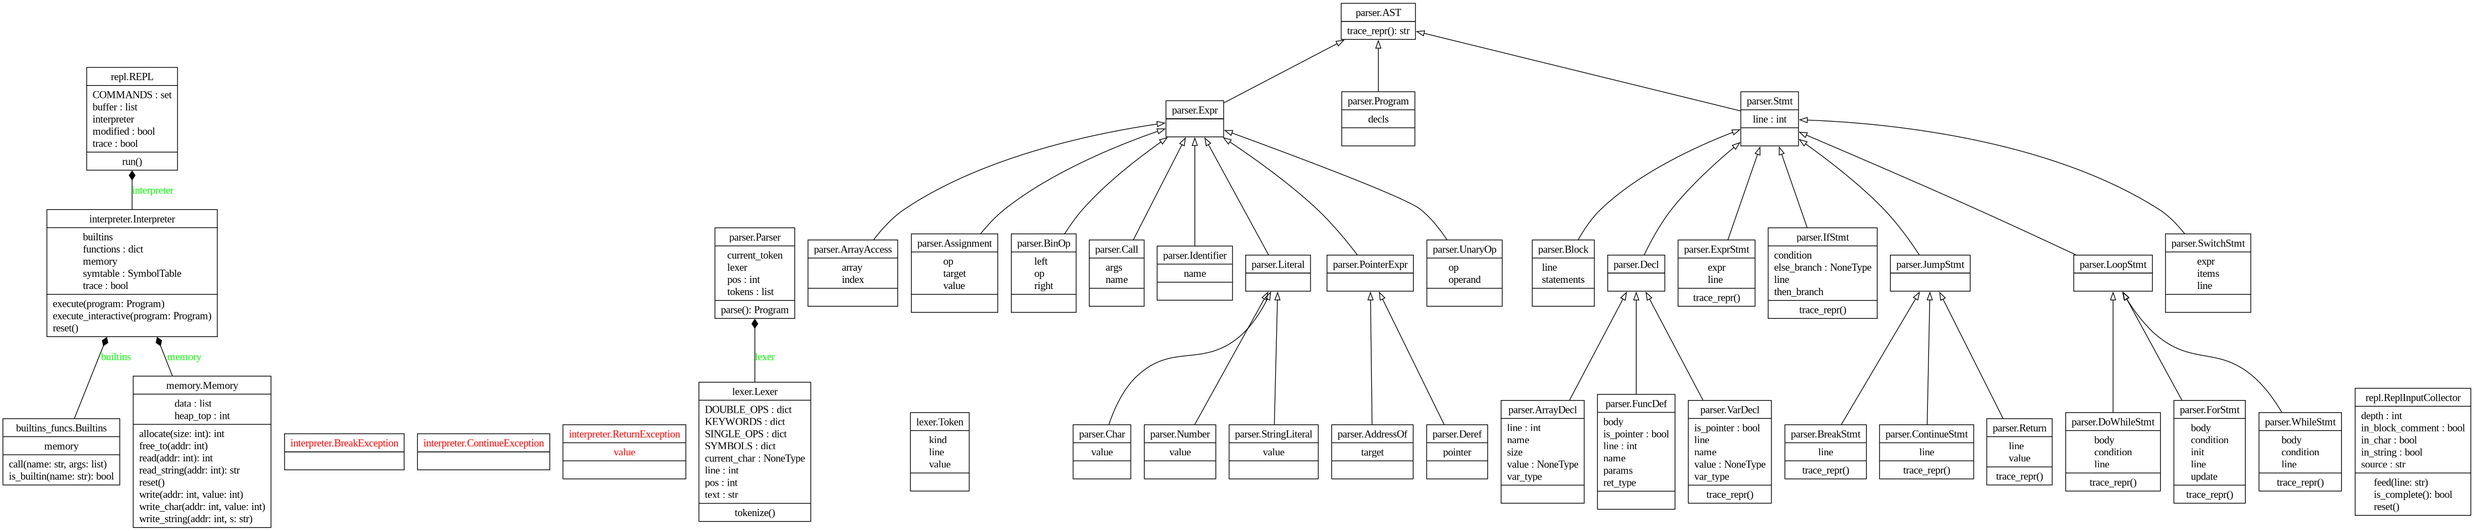
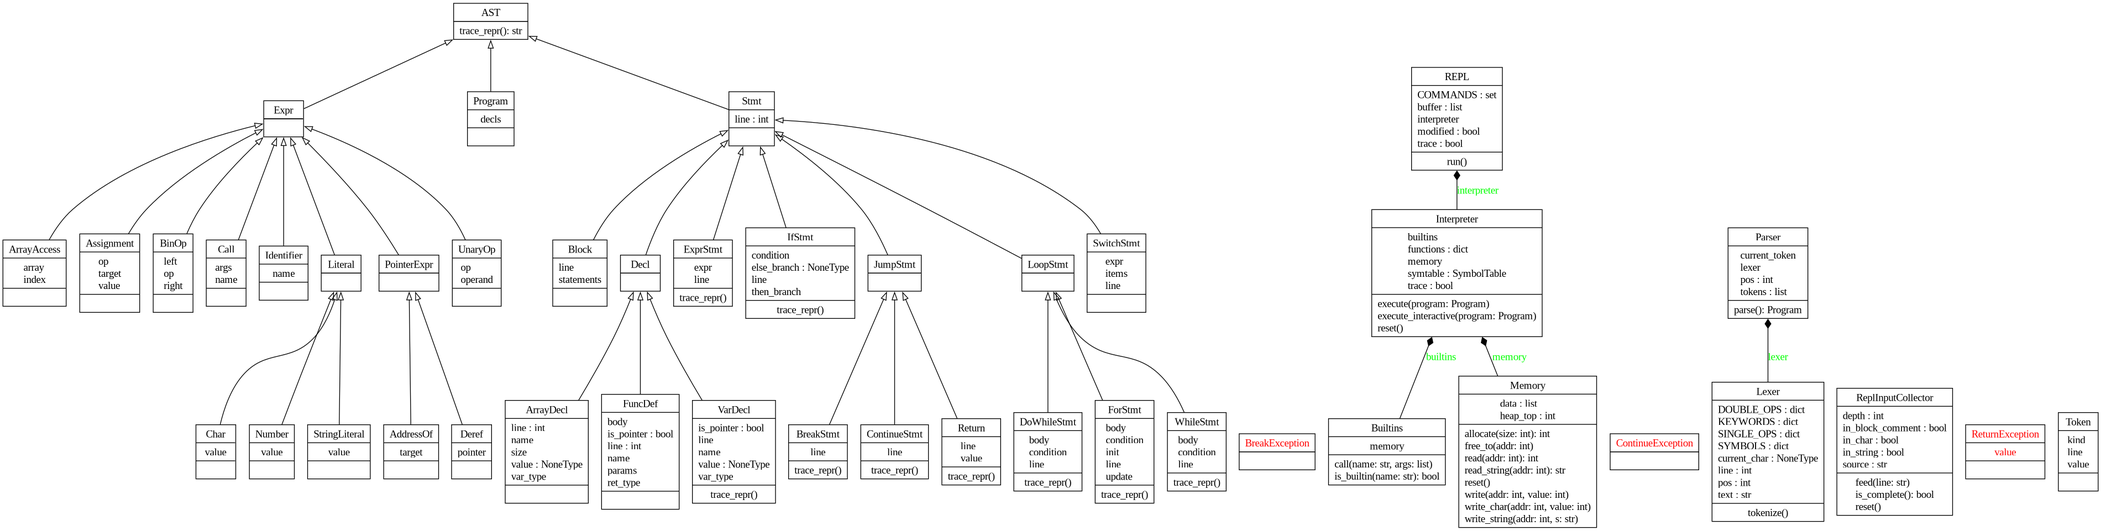
refactor: centralize int32(), fix dead code, update docs and UML
- memory.py: add module-level int32() shared utility, eliminating
  duplicate _int32 implementations in Interpreter and Builtins
- interpreter.py: import int32 from memory; remove duplicate _int32
  method; remove dead `if symbol is None` check after lookup()
  (lookup() raises RuntimeError, never returns None)
- builtins_funcs.py: import int32 from memory; remove duplicate
  _int32 static method
- repl.py: fix _cmd_trace docstring (says [trace] but actual format
  is [line n] <statement>)
- CLAUDE.md: remove gaps that are already fixed (TRACE format, ABOUT
  author, FUNCS line numbers); update int32 description; keep only
  remaining gaps (filename, block-local decls, error wording)
- README.md: note builtins_funcs.py rename required for submission
- uml/: regenerate class and package diagrams

diff --git a/interpreter.py b/interpreter.py
@@ -33,7 +33,7 @@ from parser import (
     AddressOf, Deref, ArrayAccess,
 )
 from symtable import SymbolTable
-from memory import Memory
+from memory import Memory, int32
 from builtins_funcs import Builtins
 
 
@@ -351,9 +351,8 @@ class Interpreter:
             return addr
 
         elif isinstance(node, Identifier):
+            # lookup() 找不到時會拋出 RuntimeError，不會回傳 None
             symbol = self.symtable.lookup(node.name)
-            if symbol is None:
-                raise RuntimeError(f"Runtime error: undefined variable '{node.name}'")
             # 陣列名稱作為右值時，退化為指向首元素的指標（array decay）
             if symbol.is_array:
                 return symbol.addr
@@ -430,29 +429,29 @@ class Interpreter:
         right = self._eval_expr(node.right)
         op = node.op
 
-        if op == "PLUS":    return self._int32(left + right)
-        if op == "MINUS":   return self._int32(left - right)
-        if op == "MUL":     return self._int32(left * right)
+        if op == "PLUS":    return int32(left + right)
+        if op == "MINUS":   return int32(left - right)
+        if op == "MUL":     return int32(left * right)
         if op == "DIV":
             if right == 0:
                 raise RuntimeError("Runtime error: division by zero.")
-            return self._int32(int(left / right))
+            return int32(int(left / right))
         if op == "MOD":
             if right == 0:
                 raise RuntimeError("Runtime error: division by zero.")
             # C 語意：截斷除法，餘數符號與被除數相同（不同於 Python 的 floor 除法）
-            return self._int32(left - int(left / right) * right)
+            return int32(left - int(left / right) * right)
         if op == "EQ":      return 1 if left == right else 0
         if op == "NEQ":     return 1 if left != right else 0
         if op == "LT":      return 1 if left < right else 0
         if op == "GT":      return 1 if left > right else 0
         if op == "LTE":     return 1 if left <= right else 0
         if op == "GTE":     return 1 if left >= right else 0
-        if op == "BIT_AND": return self._int32(left & right)
-        if op == "BIT_OR":  return self._int32(left | right)
-        if op == "BIT_XOR": return self._int32(left ^ right)
-        if op == "LSHIFT":  return self._int32(left << right)
-        if op == "RSHIFT":  return self._int32(left >> right)
+        if op == "BIT_AND": return int32(left & right)
+        if op == "BIT_OR":  return int32(left | right)
+        if op == "BIT_XOR": return int32(left ^ right)
+        if op == "LSHIFT":  return int32(left << right)
+        if op == "RSHIFT":  return int32(left >> right)
 
         raise RuntimeError(f"Unknown binary operator: {op}")
 
@@ -481,13 +480,13 @@ class Interpreter:
         """
         op = node.op
         if op == "MINUS":
-            return self._int32(-self._eval_expr(node.operand))
+            return int32(-self._eval_expr(node.operand))
         if op == "PLUS":
             return self._eval_expr(node.operand)
         if op == "NOT":
             return 1 if not self._eval_expr(node.operand) else 0
         if op == "BIT_NOT":
-            return self._int32(~self._eval_expr(node.operand))
+            return int32(~self._eval_expr(node.operand))
         if op == "INC":
             return self._eval_inc_dec(node.operand, 1)
         if op == "DEC":
@@ -516,13 +515,13 @@ class Interpreter:
         """
         if isinstance(target, Identifier):
             val = self.symtable.get_value(target.name)
-            new_val = self._int32(val + delta)
+            new_val = int32(val + delta)
             self.symtable.set_value(target.name, new_val)
             return new_val
         if isinstance(target, Deref):
             addr = self._eval_expr(target.pointer)
             val = self.memory.read(addr)
-            new_val = self._int32(val + delta)
+            new_val = int32(val + delta)
             self.memory.write(addr, new_val)
             return new_val
         if isinstance(target, ArrayAccess):
@@ -539,7 +538,7 @@ class Interpreter:
                 base = self.memory.read(symbol.addr)
                 addr = base + index
             val = self.memory.read(addr)
-            new_val = self._int32(val + delta)
+            new_val = int32(val + delta)
             if symbol.var_type == 'char':
                 self.memory.write_char(addr, new_val)
             else:
@@ -571,20 +570,20 @@ class Interpreter:
         if node.op != "ASSIGN":
             old = self._eval_lvalue_read(node.target)
             if node.op == "ADD_ASSIGN":
-                val = self._int32(old + val)
+                val = int32(old + val)
             elif node.op == "SUB_ASSIGN":
-                val = self._int32(old - val)
+                val = int32(old - val)
             elif node.op == "MUL_ASSIGN":
-                val = self._int32(old * val)
+                val = int32(old * val)
             elif node.op == "DIV_ASSIGN":
                 if val == 0:
                     raise RuntimeError("Runtime error: division by zero.")
-                val = self._int32(int(old / val))
+                val = int32(int(old / val))
             elif node.op == "MOD_ASSIGN":
                 if val == 0:
                     raise RuntimeError("Runtime error: division by zero.")
                 # C 語意：截斷除法，餘數符號與被除數相同
-                val = self._int32(old - int(old / val) * val)
+                val = int32(old - int(old / val) * val)
 
         self._eval_lvalue_write(node.target, val)
         return val
@@ -757,18 +756,3 @@ class Interpreter:
                 return base + index
         raise RuntimeError("Invalid & target")
 
-    # ── 工具方法 ──────────────────────────────────
-
-    def _int32(self, value: int) -> int:
-        """
-        將任意整數截斷為 32 位元有號整數範圍（-2^31 ～ 2^31-1）。
-        所有算術與位元運算的結果均經過此函式處理，模擬 C 的 int 溢位行為。
-
-        Args:
-            value (int): 要截斷的整數值。
-
-        Returns:
-            int: 截斷後的 32 位元有號整數。
-        """
-        value = int(value)
-        return ((value + 2**31) % 2**32) - 2**31

diff --git a/builtins_funcs.py b/builtins_funcs.py
@@ -25,6 +25,7 @@ Usage:
 import sys
 import math
 import random
+from memory import int32
 
 
 class Builtins:
@@ -74,21 +75,6 @@ class Builtins:
         }
 
     # ── 統一呼叫介面 ──────────────────────────────
-
-    @staticmethod
-    def _int32(value: int) -> int:
-        """
-        截斷為 32 位元有號整數範圍（-2^31 ～ 2^31-1）。
-        供內建函式在回傳前統一截斷，模擬 C 的 int 溢位行為。
-
-        Args:
-            value (int): 要截斷的整數值。
-
-        Returns:
-            int: 截斷後的 32 位元有號整數。
-        """
-        value = int(value)
-        return ((value + 2**31) % 2**32) - 2**31
 
     def call(self, name: str, args: list):
         """
@@ -355,7 +341,7 @@ class Builtins:
         if not args:
             raise RuntimeError("abs: missing argument")
         # 截斷為 32-bit：abs(INT_MIN) 在 C 中為未定義行為，此處採 wrap-around 語意
-        return self._int32(abs(int(args[0])))
+        return int32(abs(int(args[0])))
 
     def _max(self, args):
         """
@@ -399,7 +385,7 @@ class Builtins:
         base, exp = int(args[0]), int(args[1])
         if exp < 0:
             return 0
-        return self._int32(int(base ** exp))
+        return int32(int(base ** exp))
 
     def _sqrt(self, args):
         """
@@ -439,7 +425,7 @@ class Builtins:
         if b == 0:
             raise RuntimeError("mod: division by zero")
         # C 語意：截斷除法，餘數符號與被除數相同（不同於 Python 的 floor 除法）
-        return self._int32(a - int(a / b) * b)
+        return int32(a - int(a / b) * b)
 
     def _rand(self, args):
         """

diff --git a/memory.py b/memory.py
@@ -22,6 +22,15 @@ Usage:
 """
 
 
+def int32(value: int) -> int:
+    """
+    截斷為 32 位元有號整數範圍（−2^31 ～ 2^31−1）。
+    供直譯器與內建函式共用，模擬 C 的 int 溢位行為。
+    """
+    value = int(value)
+    return ((value + 2**31) % 2**32) - 2**31
+
+
 class Memory:
     """
     Small-C 直譯器的線性記憶體空間。
@@ -107,9 +116,7 @@ class Memory:
         """
         if addr < 0 or addr >= self.heap_top:
             raise RuntimeError(f"Memory access out of bounds: address {addr}")
-        value = int(value)
-        value = ((value + 2**31) % 2**32) - 2**31  # 截斷為 32 位元有號整數
-        self.data[addr] = value
+        self.data[addr] = int32(value)  # 截斷為 32 位元有號整數
 
     def write_char(self, addr: int, value: int):
         """
@@ -125,8 +132,7 @@ class Memory:
         if addr < 0 or addr >= self.heap_top:
             raise RuntimeError(f"Memory access out of bounds: address {addr}")
         value = int(value)
-        value = ((value + 128) % 256) - 128  # 截斷為 8 位元有號整數
-        self.data[addr] = value
+        self.data[addr] = ((value + 128) % 256) - 128  # 截斷為 8 位元有號整數
 
     # ── 字串讀寫 ──────────────────────────────────
 

diff --git a/repl.py b/repl.py
@@ -533,7 +533,7 @@ class REPL:
     def _cmd_trace(self, parts):
         """
         啟用或關閉 TRACE 模式。啟用時，直譯器執行每個 AST 節點前
-        會在輸出中印出 [trace] 追蹤資訊，方便除錯。
+        會在輸出中印出 [line n] <statement> 追蹤資訊，方便除錯。
 
         用法：TRACE ON / TRACE OFF
         """

diff --git a/CLAUDE.md b/CLAUDE.md
@@ -12,9 +12,9 @@ Small-C is a tree-walking interpreter for a subset of C, implemented in pure Pyt
 python main.py
 ```
 
-This launches the REPL (prompt `sc> `). There are no CLI flags or script-mode entry points — all interaction happens inside the REPL. To execute a `.c` file, start the REPL and use `LOAD <file>` followed by `RUN`. Use `CHECK` to parse without executing. `TRACE ON` enables per-node execution tracing for debugging the interpreter itself.
+This launches the REPL (prompt `sc> `). There are no CLI flags or script-mode entry points — all interaction happens inside the REPL. To execute a `.c` file, start the REPL and use `LOAD <file>` followed by `RUN`. Use `CHECK` to parse without executing. `TRACE ON` enables per-node execution tracing, printing `[line n] <statement>` before each node.
 
-Because there are no tests, verification of changes is done by hand via the REPL: `LOAD` a sample program, `RUN` it, and inspect output / `VARS` / `FUNCS`.
+Because there are no tests, verification is done by hand via the REPL: `LOAD` a sample program, `RUN` it, and inspect output / `VARS` / `FUNCS`.
 
 ## Architecture
 
@@ -25,19 +25,19 @@ source ─► preprocess() ─► Lexer ─► Parser ─► Interpreter ─► 
                          (Token)   (AST)    (walks AST)
 ```
 
-- **`lexer.py`** — `preprocess()` handles parameter-less `#define` macro expansion (identifier-boundary aware, so `#define N 8` won't clobber `int`). `Lexer.tokenize()` is a hand-written character scanner that yields `Token(kind, value, line)`. Double-char operators are matched before single-char to avoid ambiguity (`==` before `=`).
+- **`lexer.py`** — `preprocess()` handles parameter-less `#define` macro expansion (identifier-boundary aware). `Lexer.tokenize()` is a hand-written character scanner that yields `Token(kind, value, line)`. Double-char operators are matched before single-char to avoid ambiguity (`==` before `=`).
 
-- **`parser.py`** — Recursive-descent parser producing the AST. The **top half of the file defines all AST node classes** (`Expr`/`Stmt`/`FuncDef`/`Program` hierarchies); the **bottom half is the `Parser` class**. Expression precedence, low to high: `assignment > logic_or > logic_and > bit_or > bit_xor > bit_and > equality > rel > shift > add > mul > unary > primary`. `is_func_def()` does 3–4 token lookahead to disambiguate function definitions from variable declarations at the top level (it must handle both `int foo(` and `int *foo(`).
+- **`parser.py`** — Recursive-descent parser producing the AST. The **top half defines all AST node classes** (`Expr`/`Stmt`/`FuncDef`/`Program` hierarchies); the **bottom half is the `Parser` class**. Expression precedence, low to high: `assignment > logic_or > logic_and > bit_or > bit_xor > bit_and > equality > rel > shift > add > mul > unary > primary`. `is_func_def()` does 3–4 token lookahead to disambiguate function definitions from variable declarations.
 
-- **`interpreter.py`** — `Interpreter` walks the AST. Two entry points: `execute()` runs a full program (requires `main()`; does a two-pass scan — collect functions and globals first, then call `main`); `execute_interactive()` runs REPL fragments directly without requiring `main()`. **Control flow (`break`/`continue`/`return`) is implemented via Python exceptions** (`BreakException`, `ContinueException`, `ReturnException`) caught by the nearest enclosing loop or call site. All values are integers — `char` is just an 8-bit int, pointers are memory addresses (also ints).
+- **`interpreter.py`** — `Interpreter` walks the AST. Two entry points: `execute()` runs a full program (requires `main()`; collects functions and globals first, then calls `main`); `execute_interactive()` runs REPL fragments directly without requiring `main()`. **Control flow (`break`/`continue`/`return`) is implemented via Python exceptions** (`BreakException`, `ContinueException`, `ReturnException`) caught by the nearest enclosing loop or call site. All values are integers — `char` is just an 8-bit int, pointers are memory addresses (also ints).
 
-- **`memory.py`** — `Memory` is a flat `list[int]` of 65536 cells with a bump allocator (`heap_top`). `allocate()` grows it, `free_to()` rewinds it (used on function return to release locals). `write()` truncates to 32-bit signed, `write_char()` to 8-bit signed. Strings are C-style null-terminated sequences written via `write_string()`.
+- **`memory.py`** — `int32(value)` is a **module-level utility** shared by all modules for 32-bit truncation. `Memory` is a flat `list[int]` of 65536 cells with a bump allocator (`heap_top`). `allocate()` grows it, `free_to()` rewinds it (used on function return to release locals). `write()` delegates to `int32()`, `write_char()` truncates to 8-bit signed. Strings are C-style null-terminated sequences via `write_string()`.
 
 - **`symtable.py`** — `SymbolTable` is a stack of scope dicts. `scopes[0]` is the global scope (permanent); each function call pushes a new scope and pops on return. `lookup()` walks from innermost outward, giving C-like shadowing. It only maps names → `Symbol` (which holds type, address, `is_pointer`, `is_array`, `array_size`); the actual cell read/write is delegated to `Memory`.
 
-- **`builtins_funcs.py`** — `Builtins.call(name, args)` dispatches built-in functions by name. Built-ins receive already-evaluated integer arguments; string arguments arrive as memory addresses and must be read via `memory.read_string(addr)`. Covers I/O (`printf`, `scanf`, `putchar`, `getchar`, `puts`), string ops (`strlen`, `strcpy`, `strcmp`, `strcat`), math (`abs`, `max`, `min`, `pow`, `sqrt`, `mod`, `rand`, `srand`), and utilities (`memset`, `sizeof_int`, `sizeof_char`, `atoi`, `itoa`, `exit`). `Interpreter.eval_call()` checks `builtins.is_builtin(name)` before falling back to user-defined functions.
+- **`builtins_funcs.py`** — `Builtins.call(name, args)` dispatches built-in functions by name using a `_dispatch` dict. Built-ins receive already-evaluated integer arguments; string arguments arrive as memory addresses and are read via `memory.read_string(addr)`. Imports `int32` from `memory`. `Interpreter._eval_call()` checks `builtins.is_builtin(name)` before falling back to user-defined functions.
 
-- **`repl.py`** — `REPL` holds a line buffer (`self.buffer`) and dispatches `LOAD / SAVE / LIST / EDIT / DELETE / INSERT / APPEND / NEW / RUN / CHECK / TRACE / VARS / FUNCS / HELP / ABOUT / CLEAR / QUIT`. `ReplInputCollector` tracks brace depth and comment/string state across lines so multi-line function definitions can be typed at the prompt before being handed to the parser as one unit. `main.py` is a 10-line shim that just instantiates `REPL` and calls `run()`.
+- **`repl.py`** — `REPL` holds a line buffer (`self.buffer`) and dispatches all REPL commands. `ReplInputCollector` tracks brace depth and comment/string state across lines so multi-line function definitions can be typed at the prompt before being handed to the parser as one unit.
 
 ### Small-C language subset
 
@@ -45,45 +45,33 @@ Supported: `int` / `char` / `void` (with pointer `*`); variable and array declar
 
 ## Conventions specific to this codebase
 
-- **All docstrings and inline comments are in Traditional Chinese** (繁體中文). Module headers use a consistent ASCII box-drawing format with a flow diagram at the top. When editing existing modules, match this style — don't translate existing Chinese comments to English, and write new comments in Chinese if the surrounding code is in Chinese.
-- Section dividers inside classes use `# ── Section Name ────` (en-dash + box-drawing). Top-level module sections use `# ═══` (double line).
-- The interpreter uses exceptions for control flow by design — do not "fix" `BreakException`/`ContinueException`/`ReturnException` by trying to refactor them into return values.
-- Integer truncation is centralized in `Memory.write()` / `write_char()` and `Interpreter._int32()`. Always go through these rather than applying masks inline.
+- **All docstrings and inline comments are in Traditional Chinese** (繁體中文). Module headers use a consistent ASCII box-drawing format with a flow diagram at the top. When editing existing modules, match this style.
+- Section dividers inside classes use `# ── Section Name ────`. Top-level module sections use `# ═══`.
+- The interpreter uses exceptions for control flow by design — do not "fix" `BreakException`/`ContinueException`/`ReturnException`.
+- **Integer truncation uses `int32()` from `memory.py`** (module-level function). Both `Interpreter` and `Builtins` import and call `int32()` directly. Do not apply masks inline.
 
-## Assignment spec (authoritative — treat as source of truth)
+## Assignment spec (authoritative)
 
-Two spec documents live in the repo root and override any assumption you would otherwise derive from the code:
+Two spec documents live in `docs/`:
 
-- `期末專題SmallC 互動式解譯器作業說明.pdf` — the assignment handout (scanned images, 22 pages). This defines the required language subset, built-ins, REPL commands, error message formats, submission file names, and grading rubric.
-- `期末專題-Small-C 互動式解譯器評分標準-學生版.md` — the grading checklist. Five test scripts A–E; only **Test A** is visible to students, B–E are withheld and run by the grader. The MD lists every REPL command and language feature that will be checked.
+- `期末專題SmallC 互動式解譯器作業說明.pdf` — the assignment handout (22 pages).
+- `期末專題-Small-C 互動式解譯器評分標準-學生版.md` — the grading checklist. Five test scripts A–E; only **Test A** is visible to students.
 
-When in doubt about required behavior, read the spec files rather than matching the current code — the code has known gaps (see below).
+### Spec highlights
 
-### Spec highlights that are easy to get wrong
-
-- **No block-local variable declarations.** Per the PDF, Small-C只在函式開頭宣告區域變數. Do not encourage users to declare vars mid-block even though the current parser accepts it.
-- **`switch`/`case` and postfix `++`/`--` are optional bonus features**, not core requirements. `switch` is already implemented; postfix `++`/`--` is intentionally absent.
-- **REPL commands are case-insensitive** and the spec enumerates the exact set: `ABOUT HELP APPEND LIST EDIT DELETE INSERT CHECK RUN SAVE NEW LOAD TRACE VARS FUNCS CLEAR QUIT/EXIT`.
-- **`ABOUT` must display 名稱、版本號、作者資訊、修課學期** — author info is required.
-- **`TRACE` output format is `[line n] <statement>`**, not a free-form node dump.
-- **`FUNCS` must print line numbers for user-defined functions**, e.g. `void swap(int *a, int *b)    line 2`. Built-ins are listed separately with no line number.
-- **Error messages have specific required formats**, e.g.
-  - `Runtime error: division by zero.`
-  - `Runtime error: array index out of bounds (index 10, size 5).`
-  - `Runtime error: sqrt() argument must be non-negative.`
-  - `Syntax error: unexpected token ';', expected expression.`
-  - `Error at line 3: expected ';' after expression statement.`
-- **Required built-ins** (must all exist with these names): `printf scanf putchar getchar puts strlen strcpy strcmp strcat abs max min pow sqrt mod rand srand memset sizeof_int sizeof_char atoi itoa exit`. `printf` must accept `%d %c %s %x %%`; `scanf` must accept `%d %c`.
-- **Submission file names**: `main.py lexer.py parser.py interpreter.py symtable.py memory.py builtins.py repl.py` + `requirements.txt` + `README.md` + 10+ test programs + PDF report (10+ pages) + 5–10 min screen recording. Note the spec expects `builtins.py`, not the current `builtins_funcs.py`.
+- **No block-local variable declarations.** Parser currently accepts them (intentional leniency). Do not encourage mid-block var declarations.
+- **`switch`/`case` is already implemented** as a bonus feature. Postfix `++`/`--` is intentionally absent.
+- **REPL commands are case-insensitive**: `ABOUT HELP APPEND LIST EDIT DELETE INSERT CHECK RUN SAVE NEW LOAD TRACE VARS FUNCS CLEAR QUIT/EXIT`.
+- **`TRACE` output format**: `[line n] <statement>` — already implemented correctly.
+- **`FUNCS`** shows line numbers for user-defined functions — already implemented.
+- **`ABOUT`** shows name/version/author/semester — already implemented.
 - **Grading rubric (100 + 15 bonus)**: Lex/Parse 25 · Semantic/Exec 30 · REPL 20 · Quality/Docs 15 · Bonus (switch/case 5, runtime errors 5, #define 5).
 
-### Known spec/implementation gaps
+### Remaining spec gaps (fix before submission)
 
-These were identified by spot-checking against the spec; fix them before submission, but don't silently "refactor" them without flagging the change:
-
-1. **TRACE format** — `interpreter.py:214` prints `f"[trace] {node}"`. Spec requires `[line n] <statement>`. AST nodes currently don't carry line numbers, so a proper fix means threading `line` through the parser into each `Stmt` node.
-2. **ABOUT missing author** — `repl.py:699-702` prints only name/version/semester. Must also include 作者資訊.
-3. **FUNCS missing line numbers** — `repl.py:607` formats user functions without a line number. `FuncDef` in `parser.py` doesn't store one; this also needs parser plumbing.
-4. **File name mismatch** — current `builtins_funcs.py` must be renamed to `builtins.py` for submission (and the import in `interpreter.py` updated).
-5. **Block-local var decls accepted** — `parser.py` `block()` calls `var_decl()` anywhere inside a block. The spec only allows declarations at function start. Either tighten the parser or document this as an intentional leniency.
-6. **Error messages** — current error strings may not match the spec's exact wording and punctuation. Audit `interpreter.py` runtime errors and `parser.py` syntax errors against the examples above.
+1. **File name mismatch** — `builtins_funcs.py` must be renamed to `builtins.py` and the import in `interpreter.py` updated accordingly.
+2. **Block-local var decls accepted** — `parser.py` `_block()` calls `_var_decl()` anywhere in a block. Spec only allows declarations at function start. Either tighten parser or document as intentional leniency.
+3. **Error message wording** — audit exact punctuation against spec examples:
+   - `Runtime error: division by zero.`
+   - `Runtime error: array index out of bounds (index 10, size 5).`
+   - `Runtime error: sqrt() argument must be non-negative.`

diff --git a/README.md b/README.md
@@ -432,7 +432,7 @@ Interpreter.execute()  ← 樹狀走訪，直接執行
 | `interpreter.py` | `Interpreter`（AST 樹狀走訪直譯器）；包含 `BreakException`、`ContinueException`、`ReturnException` |
 | `symtable.py` | `SymbolTable`（作用域堆疊）+ `Symbol`（型別、位址、指標/陣列旗標） |
 | `memory.py` | `Memory`（線性記憶體空間）；提供 allocate / free_to / read / write / read_string / write_string |
-| `builtins_funcs.py` | `Builtins`；實作所有內建函式的分派與執行邏輯 |
+| `builtins_funcs.py` | `Builtins`；實作所有內建函式的分派與執行邏輯（提交時需更名為 `builtins.py`） |
 | `repl.py` | `ReplInputCollector`（多行輸入收集器）+ `REPL`（互動環境主體） |
 
 ---
